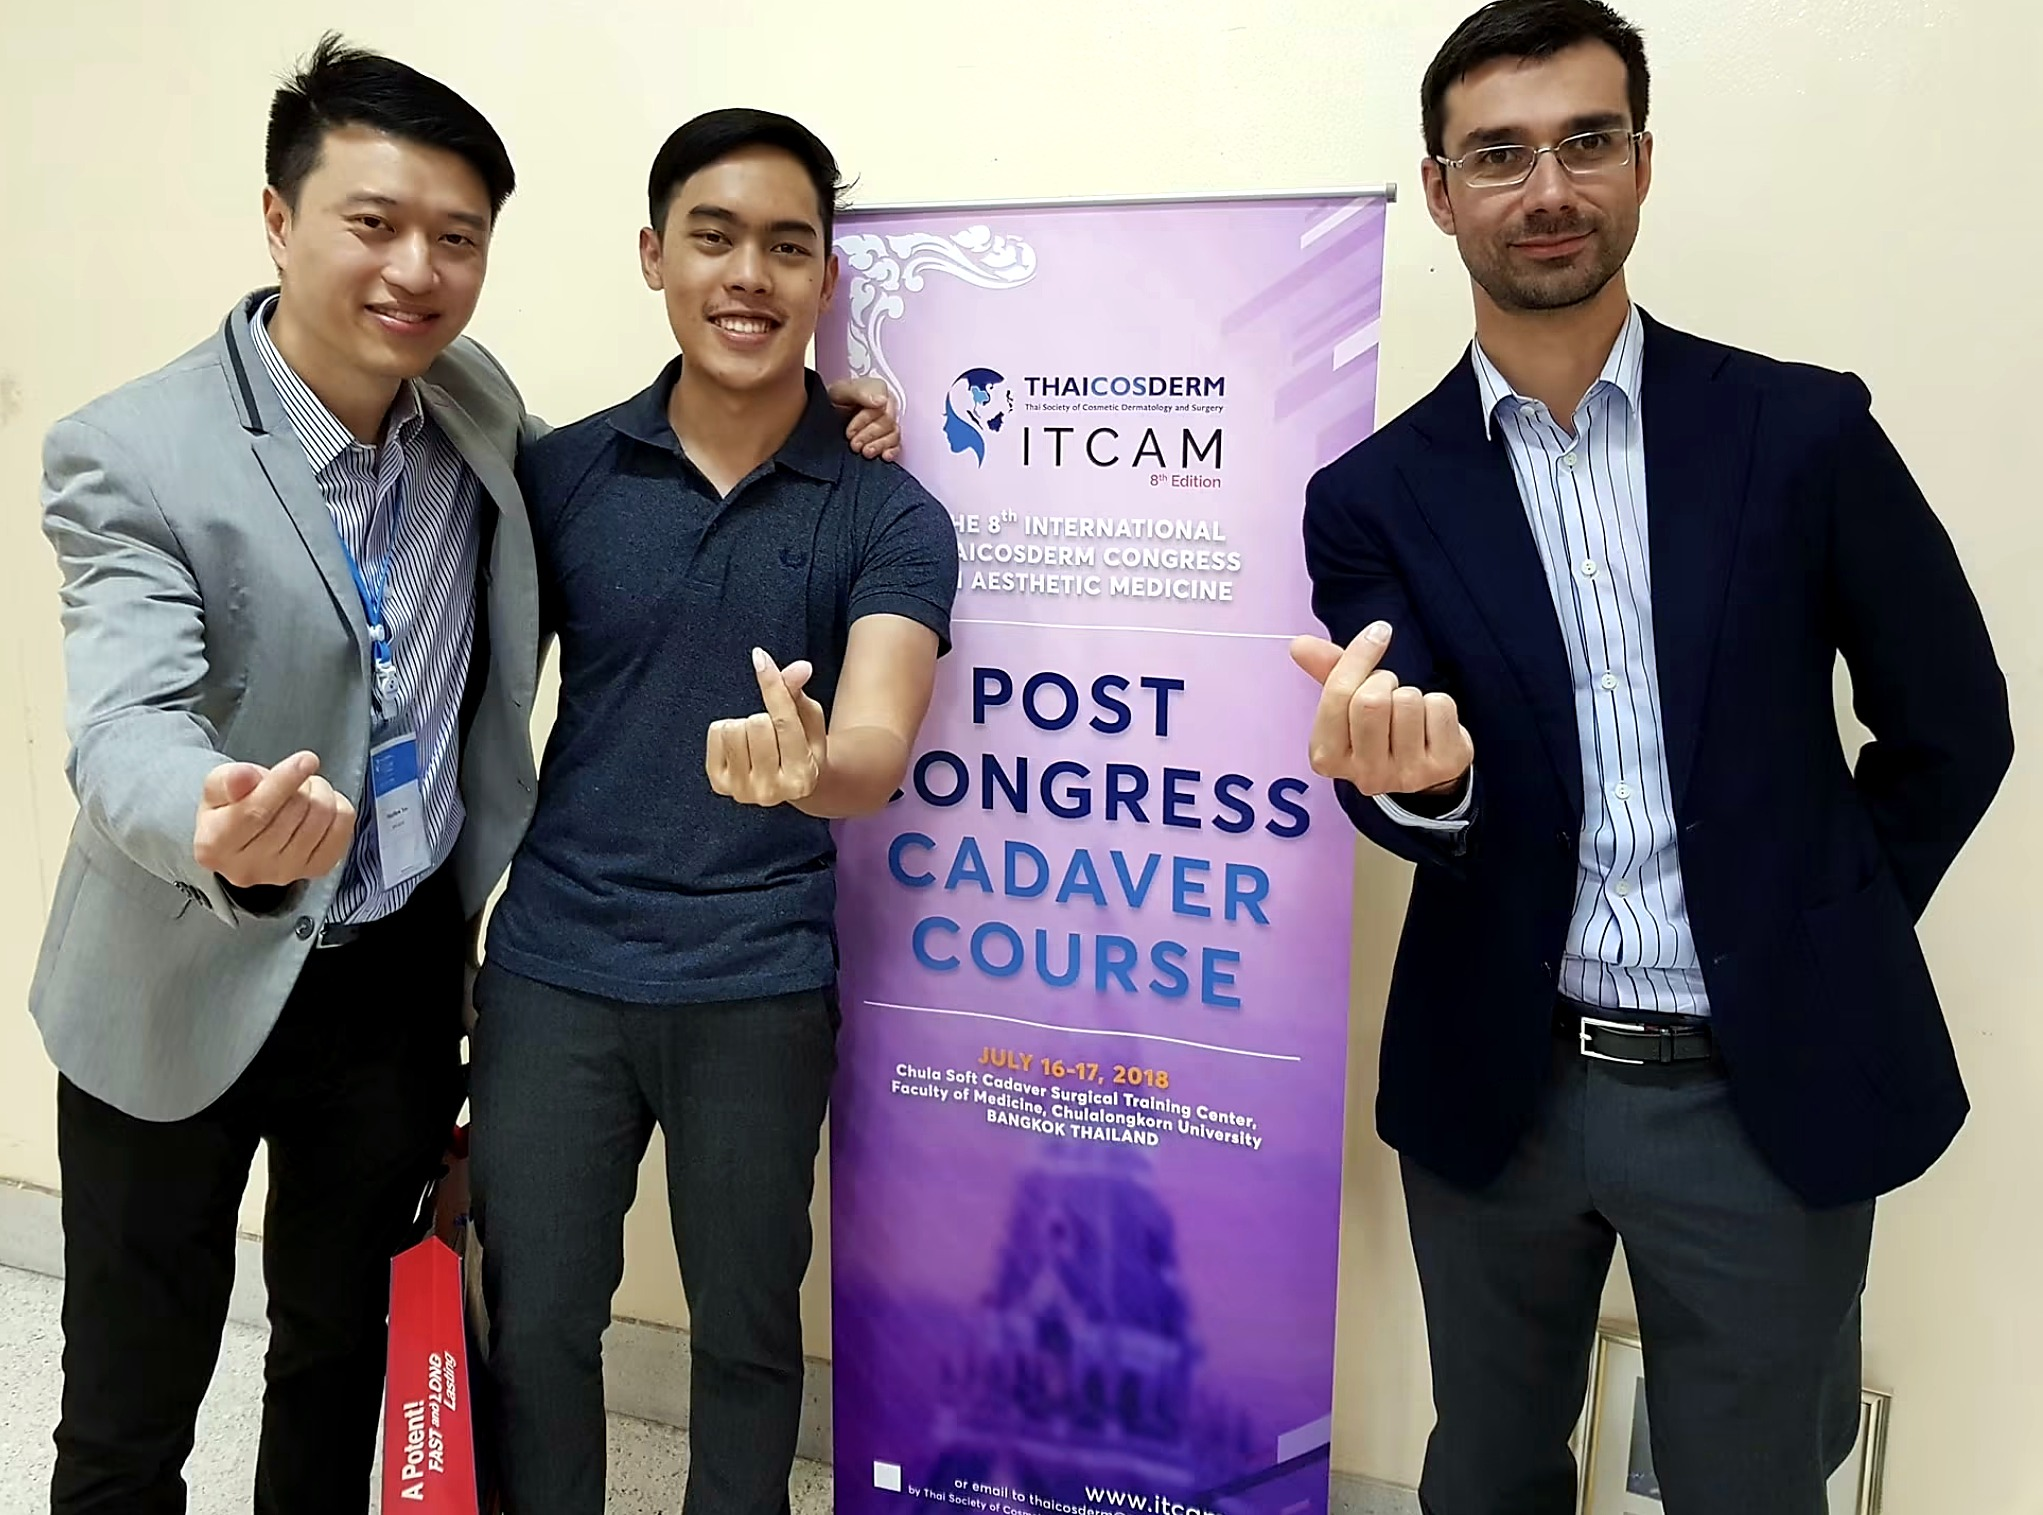
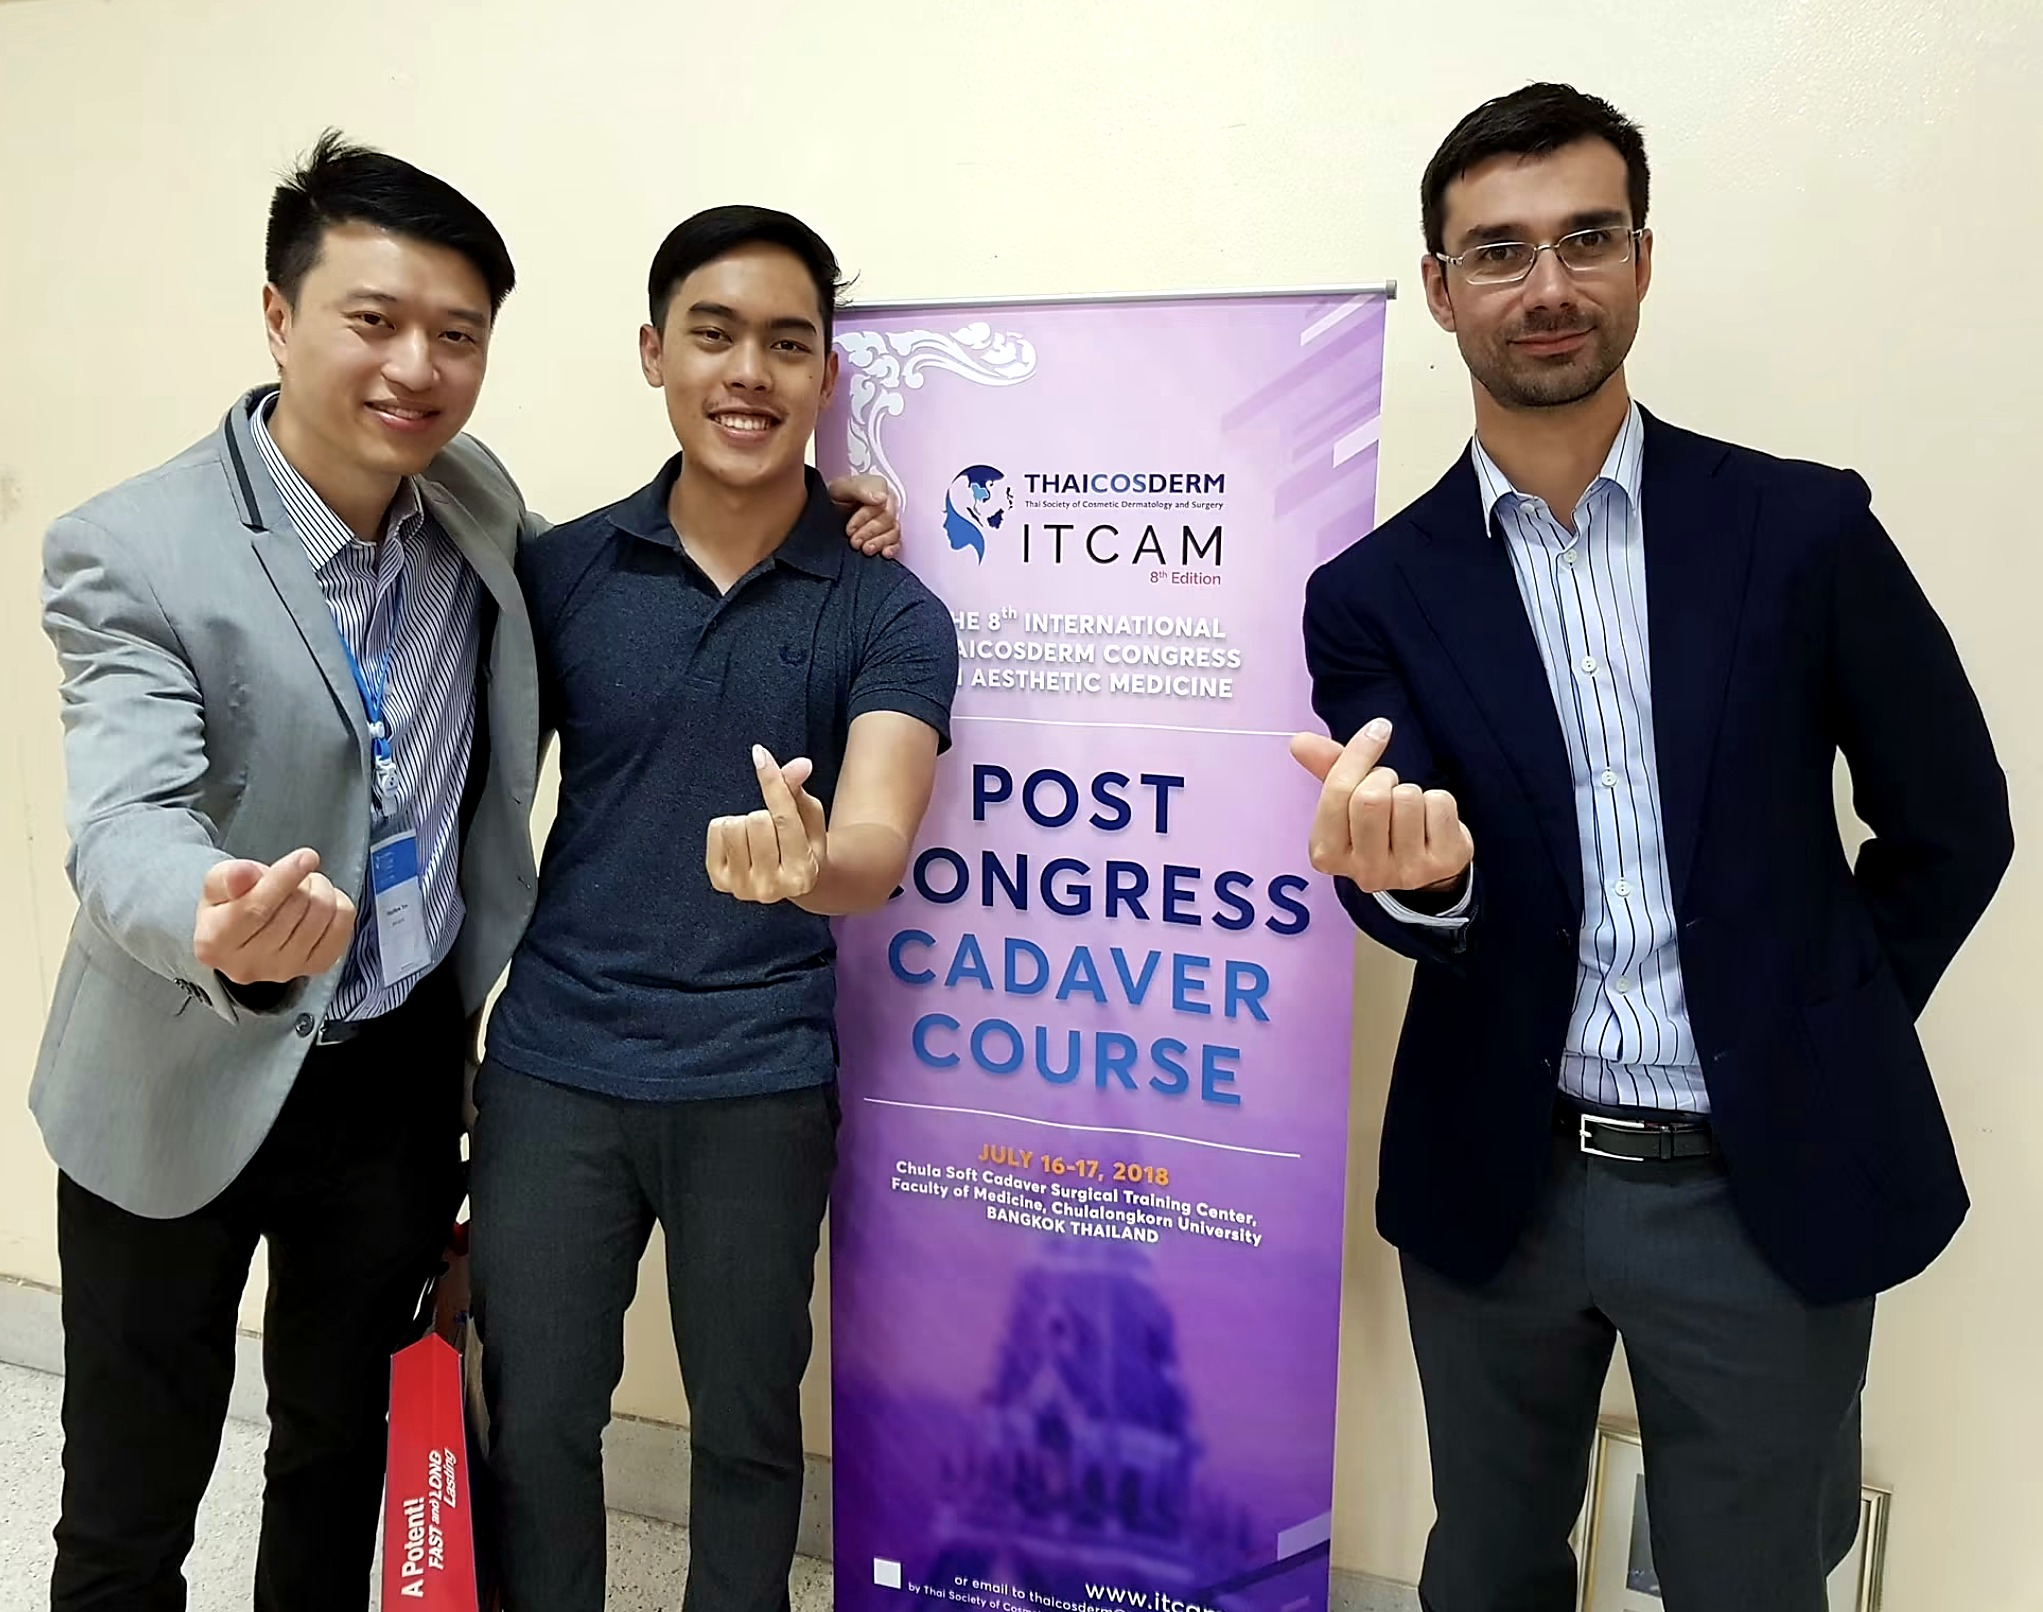
Reel v3: 1:1 cadaver course caption, book tile, no cropped heads
Claude-Session: https://claude.ai/code/session_01QoYuxddHiAEPK6JLSSJk5B

diff --git a/tools/reel_ligaments/reel.html b/tools/reel_ligaments/reel.html
@@ -30,6 +30,7 @@ body{font-family:Kanit,Montserrat,sans-serif;color:#fff;position:relative}
 .progress i{display:block;height:100%;width:0;background:var(--silver)}
 .ph{position:absolute;margin:0;border-radius:24px;overflow:hidden;border:2px solid rgba(201,206,214,.55);box-shadow:0 30px 60px rgba(0,0,0,.45);background:#0b1f4a}
 .ph img{width:100%;height:100%;object-fit:cover;display:block;transform-origin:50% 40%}
+.ph.book{background:#000}
 .ph figcaption{position:absolute;left:0;right:0;bottom:0;padding:44px 22px 16px;font:500 24px Montserrat,Kanit;color:#fff;background:linear-gradient(transparent,rgba(4,23,56,.88))}
 </style></head>
 <body>
@@ -60,11 +61,13 @@ body{font-family:Kanit,Montserrat,sans-serif;color:#fff;position:relative}
 
 <!-- 3b with Prof. Cotofana -->
 <div class="scene" id="sP">
-  <div class="c" style="top:30px;text-align:center"><span class="tag">FROM THE SOURCE</span></div>
-  <div class="c h" style="top:110px;font-size:62px;line-height:1.25">หมอบาส กับ Prof. Cotofana<br><span style="font-weight:400;font-size:44px;color:var(--mist)">เรียนกายวิภาคใบหน้าจากร่างอาจารย์ใหญ่ · 2018</span></div>
-  <figure class="ph" id="ph1" style="left:80px;top:360px;width:920px;height:580px"><img src="photos/itcam2018.jpg" style="object-position:50% 35%"><figcaption>ITCAM Post-Congress Cadaver Course · จุฬาลงกรณ์มหาวิทยาลัย</figcaption></figure>
-  <figure class="ph" id="ph2" style="left:80px;top:964px;width:448px;height:540px"><img src="photos/imcas2018.jpg" style="object-position:50% 30%"><figcaption>IMCAS Asia 2018 · Bangkok</figcaption></figure>
-  <figure class="ph" id="ph3" style="left:552px;top:964px;width:448px;height:540px"><img src="photos/cadaver2018.jpg" style="object-position:40% 30%"><figcaption>Cadaver Lab · 2018</figcaption></figure>
+  <div class="c" style="top:20px;text-align:center"><span class="tag">8 YEARS AGO · 2018</span></div>
+  <div class="c h" style="top:100px;font-size:60px;line-height:1.28">เรียนผ่ากายวิภาคใบหน้า<br>แบบตัวต่อตัว กับ Prof. Cotofana</div>
+  <div class="c p" style="top:268px;font-size:34px">นักกายวิภาคใบหน้าระดับโลก ผู้เขียน <i style="font-family:Montserrat">The Anatomy of Beauty</i></div>
+  <figure class="ph" id="ph1" style="left:80px;top:360px;width:920px;height:560px"><img src="photos/itcam2018.jpg" style="object-position:50% 4%"><figcaption>ITCAM Post-Congress Cadaver Course · จุฬาลงกรณ์มหาวิทยาลัย</figcaption></figure>
+  <figure class="ph" id="ph2" style="left:80px;top:946px;width:292px;height:530px"><img src="photos/imcas2018.jpg" style="object-position:50% 8%"><figcaption>IMCAS Asia 2018</figcaption></figure>
+  <figure class="ph" id="ph3" style="left:394px;top:946px;width:292px;height:530px"><img src="photos/cadaver2018.jpg" style="object-position:38% 6%"><figcaption>Cadaver Lab · 2018</figcaption></figure>
+  <figure class="ph book" id="ph4" style="left:708px;top:946px;width:292px;height:530px"><img src="photos/anatomy-of-beauty.jpg" style="object-fit:contain;object-position:50% 38%"><figcaption>หนังสือเล่มล่าสุด</figcaption></figure>
 </div>
 
 <!-- 4 jowl clue -->
@@ -115,9 +118,9 @@ body{font-family:Kanit,Montserrat,sans-serif;color:#fff;position:relative}
 <div class="foot">__LOGO__<div class="r">The Filler Architect · <b>นพ.เดโชวัต พรมดา</b></div></div>
 
 <script>
-const D = 51.8; // seconds
+const D = 53.2; // seconds
 const S = [ // scene windows [start, end]
-  [0, 4.2], [4.2, 10.2], [10.2, 13.6], [13.6, 19.4], [19.4, 26.6], [26.6, 33], [33, 40.2], [40.2, 46.8], [46.8, 51.8]];
+  [0, 4.2], [4.2, 10.2], [10.2, 13.6], [13.6, 20.8], [20.8, 28], [28, 34.4], [34.4, 41.6], [41.6, 48.2], [48.2, 53.2]];
 const SID = ["s1", "s2", "s3", "sP", "s4", "s5", "s6", "s7", "s8"];
 const cl = (x, a = 0, b = 1) => Math.max(a, Math.min(b, x));
 const ease = x => x < .5 ? 4 * x * x * x : 1 - Math.pow(-2 * x + 2, 3) / 2;
@@ -247,7 +250,7 @@ function render(t) {
   // s2
   { const [a] = S[1]; drawS2(prog(t, a + 1.4, a + 4.4)); $("s2p").style.opacity = prog(t, a + 3.2, a + 4); }
   // photos with Prof. Cotofana
-  { const [a, b] = S[3]; ["ph1", "ph2", "ph3"].forEach((id, i) => { const k = prog(t, a + .4 + i * .45, a + 1.2 + i * .45), f = $(id);
+  { const [a, b] = S[3]; ["ph1", "ph2", "ph3", "ph4"].forEach((id, i) => { const k = prog(t, a + .4 + i * .4, a + 1.2 + i * .4), f = $(id);
       f.style.opacity = k; f.style.transform = `translateY(${(1 - k) * 50}px)`;
       f.firstElementChild.style.transform = `scale(${1.08 - .08 * cl((t - a) / (b - a))})`; }); }
   // s4

diff --git a/tools/reel_ligaments/render.py b/tools/reel_ligaments/render.py
@@ -41,7 +41,7 @@ def main():
         pg.wait_for_timeout(500)
         dur = pg.evaluate("window.DURATION")
         if stills:
-            for t in (2.8, 8.8, 12, 16.5, 24.4, 31, 38, 45, 50):
+            for t in (2.8, 8.8, 12, 18, 25.5, 32, 39, 46, 51.5):
                 pg.evaluate(f"render({t})")
                 pg.screenshot(path=str(OUT / f"still_{t:05.1f}.png"))
             b.close()
